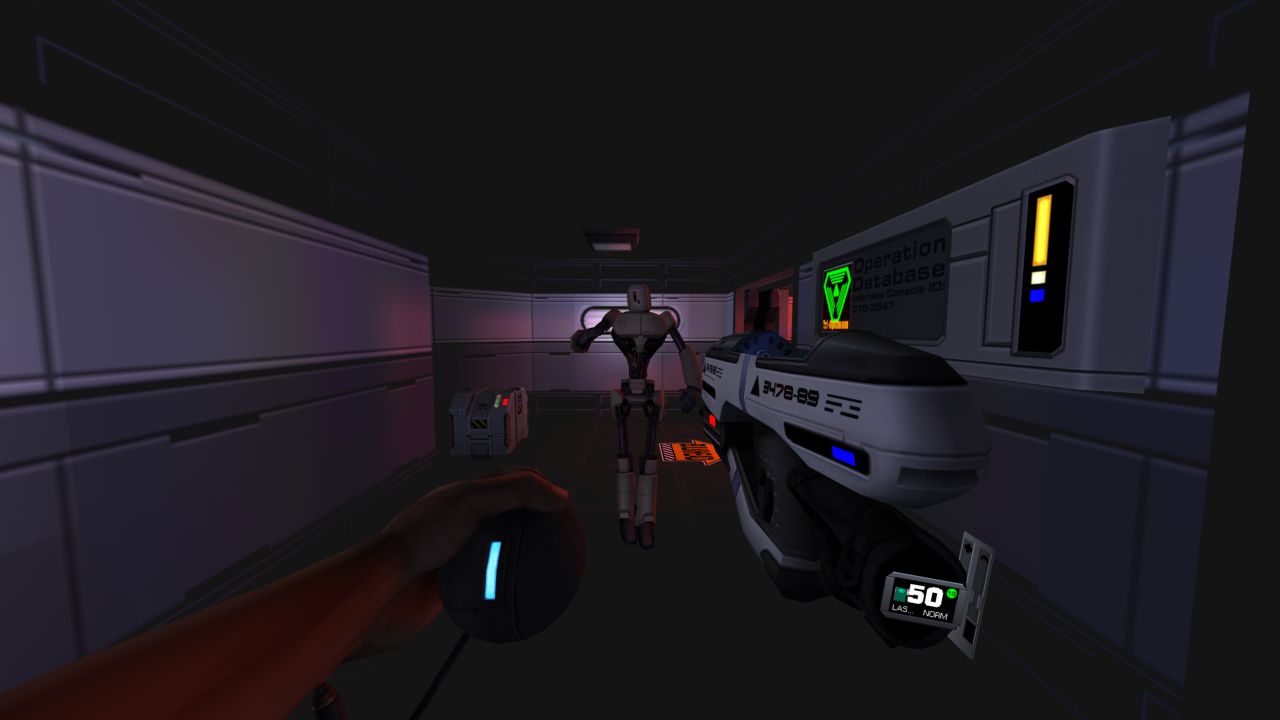
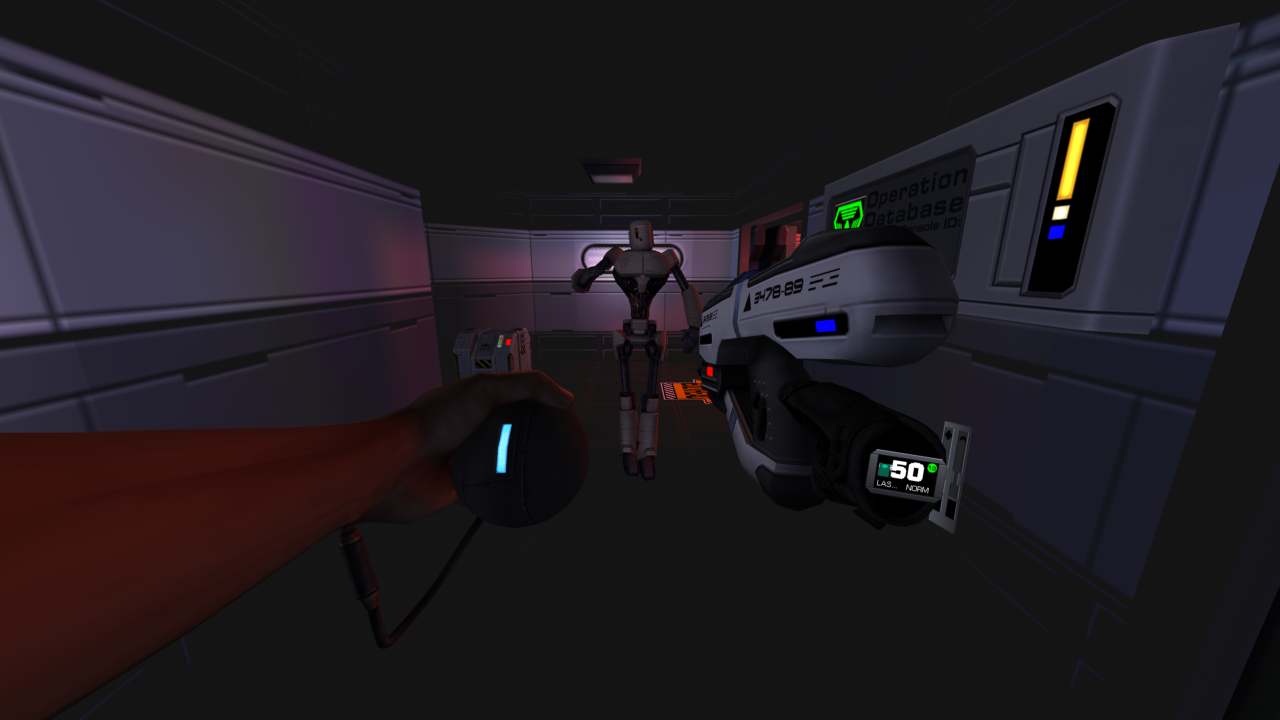
feat(hero-shots): psi amp + laser pistol clip; hands aim at the torso, eyes on the head

diff --git a/tools/shock2-sdk/src/vr-pose.ts b/tools/shock2-sdk/src/vr-pose.ts
@@ -16,7 +16,7 @@ export type Hand = "left" | "right";
 /**
  * Pawn-local controller pose (the space `<hand>_hand.position/rotation` take)
  * for a hand at `offset` from the eye - x right, y up, -z toward `target`,
- * horizontally - whose -Z ray points at `target`.
+ * horizontally - whose -Z ray points at `aim` (default `target`).
  */
 export function handPoseAimedAt(
   pawnPosition: Vec3,
@@ -24,6 +24,7 @@ export function handPoseAimedAt(
   eyeHeight: number,
   target: Vec3,
   offset: Vec3,
+  aim: Vec3 = target,
 ): { position: Vec3; rotation: Quat } {
   const eye = add(pawnPosition, [0, eyeHeight, 0]);
   const toward = sub(target, eye);
@@ -32,7 +33,7 @@ export function handPoseAimedAt(
   const world = add(eye, quatRotate(yawRotation, offset));
   // lookQuat, not a shortest arc from -Z: that picks an arbitrary roll (a
   // gun aimed along +Z comes out upside down).
-  const worldRotation = lookQuat(sub(target, world));
+  const worldRotation = lookQuat(sub(aim, world));
   const inversePawn = quatConjugate(pawnRotation);
   return {
     position: quatRotate(inversePawn, sub(world, pawnPosition)),
@@ -89,11 +90,16 @@ export async function faceTarget(game: Game, target: Vec3): Promise<void> {
   await game.step({ frames: 60 });
 }
 
-/** Turn the head to `target`, then aim each given hand at it from its offset. */
+/**
+ * Turn the head to `target`, then aim each given hand from its offset at
+ * `aims[hand]` if given (a melee swing pointing its tip elsewhere), else at
+ * `target`.
+ */
 export async function aimHandsAt(
   game: Game,
   target: Vec3,
   hands: Partial<Record<Hand, Vec3>>,
+  aims: Partial<Record<Hand, Vec3>> = {},
 ): Promise<void> {
   await game.input.lookAtWorldPoint(target);
   const { player } = await game.info();
@@ -104,6 +110,7 @@ export async function aimHandsAt(
       player.camera_offset[1],
       target,
       offset,
+      aims[hand],
     );
     await game.input.set(`${hand}_hand.position`, pose.position);
     await game.input.set(`${hand}_hand.rotation`, pose.rotation);

diff --git a/README.md b/README.md
@@ -19,7 +19,7 @@ Once installed, copy `sshock2.kpf` and the `mods/` folder from it - see [DEVELOP
 <img src="screenshots/hero/hydro1.png" alt="Hydroponics: shotgun on a hybrid" width="400"/> <img src="screenshots/hero/medsci1.png" alt="Med/Sci: wrench and pistol against a hybrid" width="400"/>
 <img src="screenshots/hero/ops2.png" alt="Operations: psi amp and laser pistol against a protocol droid" width="400"/> <img src="screenshots/hero/rec1.png" alt="Recreation: pistol on a monkey" width="400"/>
 
-<img src="screenshots/hero/rec1.gif" alt="Recreation: raising a pistol and firing at a charging monkey" width="400"/>
+<img src="screenshots/hero/rec1.gif" alt="Recreation: raising a pistol and firing at a charging monkey" width="400"/> <img src="screenshots/hero/ops2.gif" alt="Operations: casting cryokinesis from the psi amp, then firing the laser pistol" width="400"/>
 
 Regenerate with `node scripts/hero-shots.mjs` from `tools/shock2-sdk` (after `npm run build`).
 
